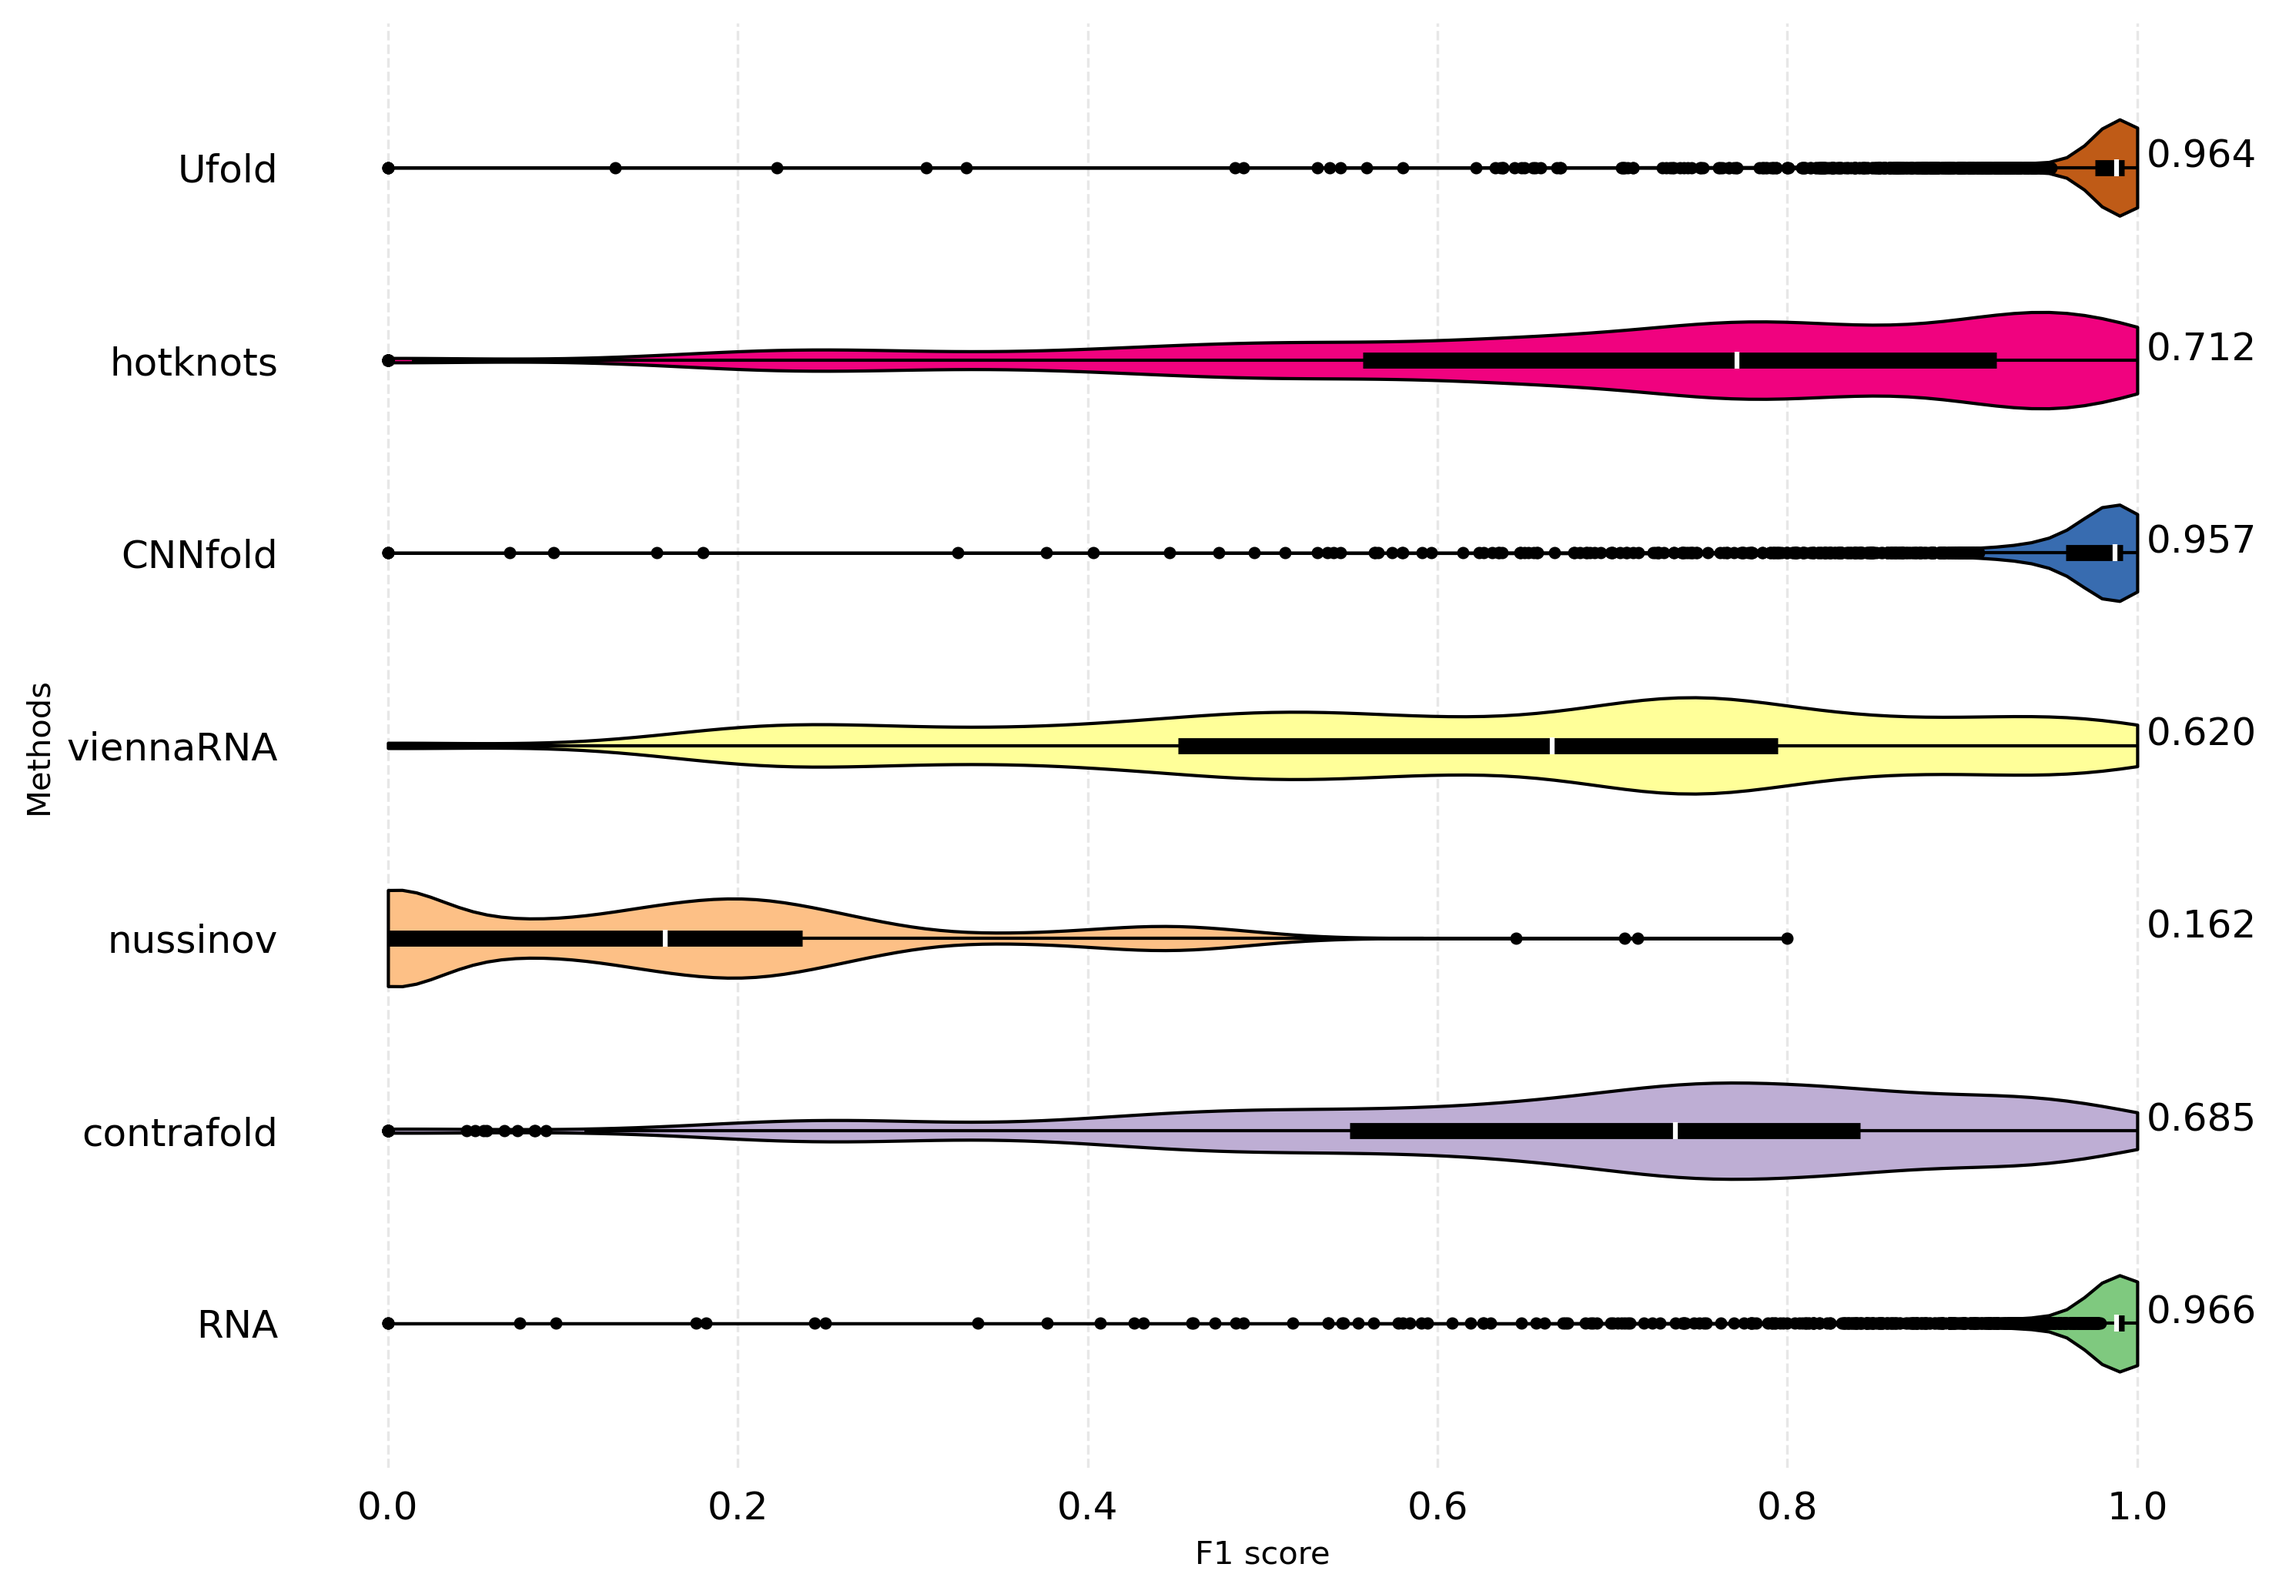
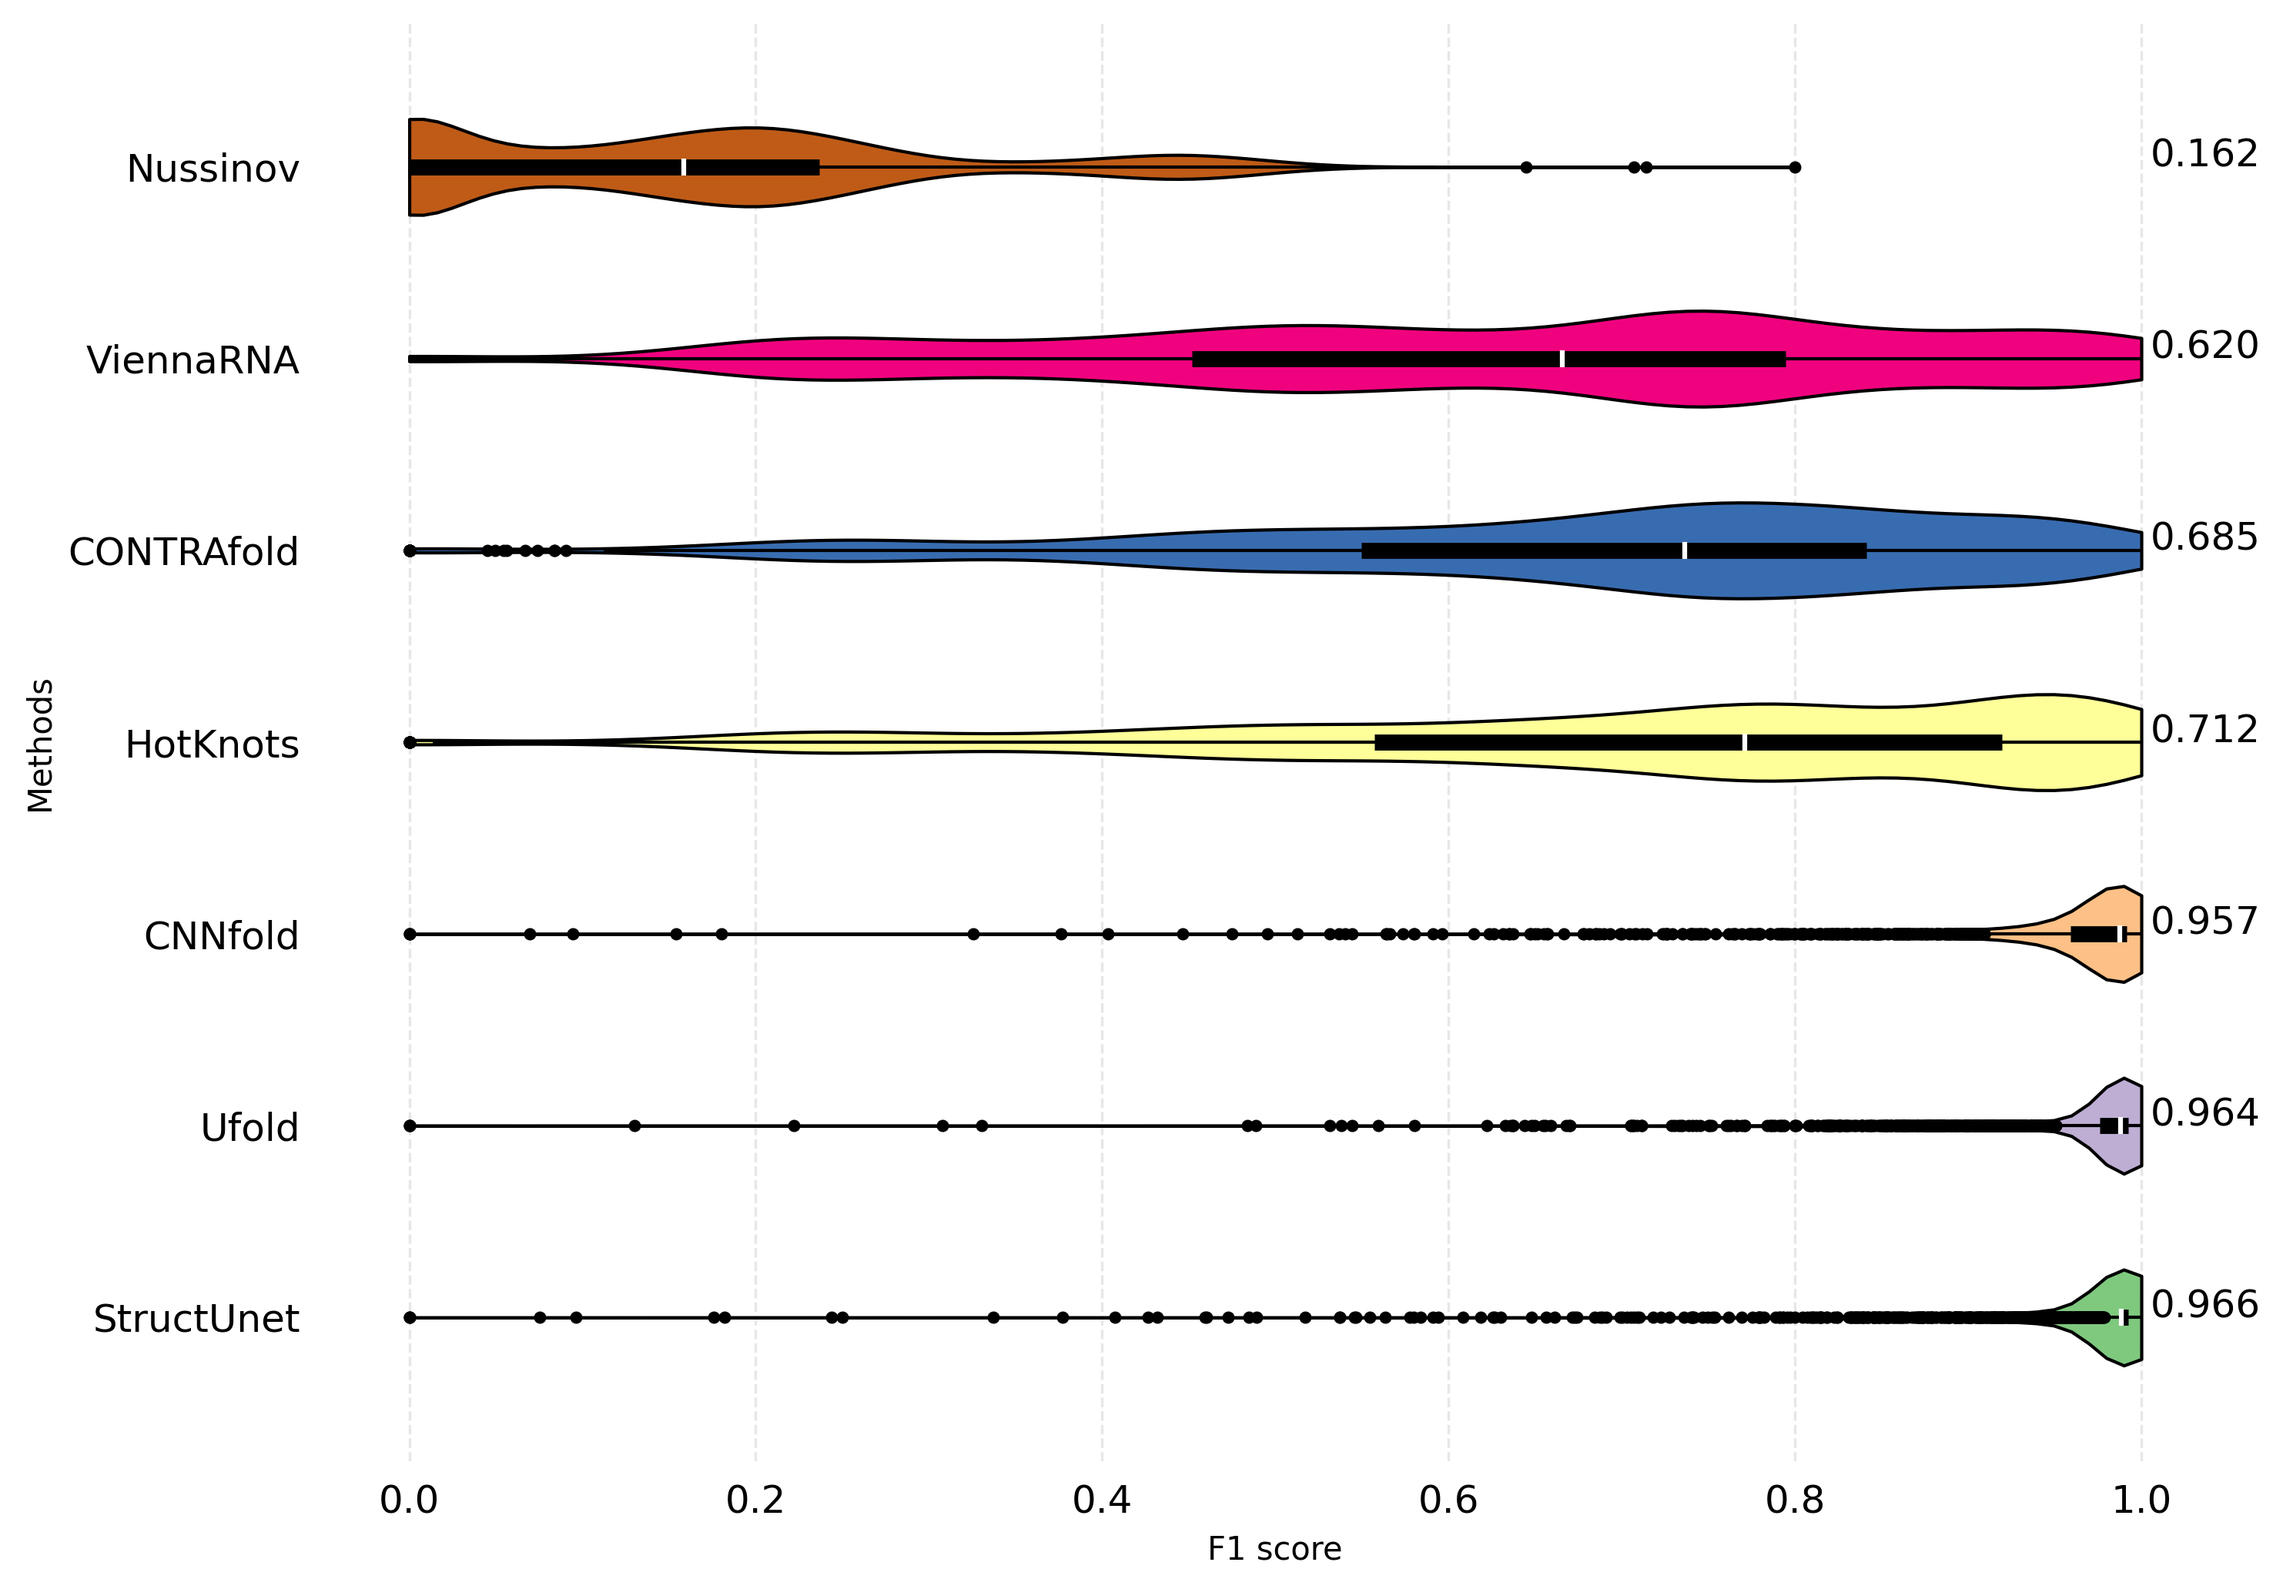
Added plot to script and changed point size

diff --git a/workflow.py b/workflow.py
@@ -192,8 +192,8 @@ def test_model_cpu(files):
     Test the model of the test set and time it
     """
     inputs = ['RNA_Unet.pth'] + files
-    outputs = ['results/times_final_cpu.csv', 'figures/time_final_cpu.png'] + [file.replace('data/test_files', 'steps/RNA_Unet') for file in files] 
-    options = {"memory":"16gb", "walltime":"48:00:00", "account":"RNA_Unet"} #NOTE - Think about memory and walltime
+    outputs = [file.replace('data/test_files', 'steps/RNA_Unet') for file in files] 
+    options = {"memory":"16gb", "walltime":"48:00:00", "account":"RNA_Unet"}
     spec = """echo "Job ID: $SLURM_JOB_ID\n"
     python3 scripts/predict_test.py"""
     return AnonymousTarget(inputs=inputs, outputs=outputs, options=options, spec=spec)
@@ -226,7 +226,7 @@ def compare_methods_under600(methods, files):
                'results/pseudoknot_F1.csv',
                'results/average_scores.csv',
                'figures/evaluation_predictions_under600.png'] 
-    options = {"memory":"8gb", "walltime":"1:00:00", "account":"RNA_Unet"} #NOTE - Think about memory and walltime
+    options = {"memory":"8gb", "walltime":"1:00:00", "account":"RNA_Unet"} 
     spec = """echo "Job ID: $SLURM_JOB_ID\n"
     python3 scripts/compare_predictions_under600.py"""
     return AnonymousTarget(inputs=inputs, outputs=outputs, options=options, spec=spec) 
@@ -238,9 +238,9 @@ def compare_methods_over600(methods, files):
     inputs = [file.replace('data/test_files', f'steps/{method}') for file in files for method in methods] + ['results/pseudoknot_F1.csv', 'results/average_scores.csv', 'results/testscores_under600.csv']
     outputs = ['results/testscores_over600.csv',
                'results/family_scores.csv',
-               'figures/evaluation_predictions_over600.png',
+               'figures/evaluation_predictions_all.png',
                'figures/per_sequence_F1.png'] 
-    options = {"memory":"16gb", "walltime":"32:00:00", "account":"RNA_Unet"} #NOTE - Think about memory and walltime
+    options = {"memory":"8gb", "walltime":"1:00:00", "account":"RNA_Unet"} 
     spec = """echo "Job ID: $SLURM_JOB_ID\n"
     python3 scripts/compare_predictions_over600.py"""
     return AnonymousTarget(inputs=inputs, outputs=outputs, options=options, spec=spec) 

diff --git a/scripts/compare_predictions_over600.py b/scripts/compare_predictions_over600.py
@@ -121,7 +121,7 @@ def plot_F1(df: pd.DataFrame, outputfile: str, method: str = 'RNA_Unet'):
     plt.figure(figsize=(12, 4))
     
     for family, group in df.groupby('family'):
-        plt.scatter(group['length'], group[f'{method}_f1'], label=family)
+        plt.scatter(group['length'], group[f'{method}_f1'], label=family, s=10)
     
     plt.xlabel('Length')
     plt.ylabel('F1 score')
@@ -204,9 +204,9 @@ if __name__ == "__main__":
 
     print("--- Making plots ---")
     #Make plots
-    f1 = df_over600[[f'{method}_f1' for method in methods]]
+    f1 = df_all[[f'{method}_f1' for method in methods]]
     f1 = f1.apply(pd.to_numeric, errors='coerce')
-    violin_plot(f1, 'Methods', outputfile='figures/evaluation_predictions_over600.png')
+    violin_plot(f1, 'Methods', outputfile='figures/evaluation_predictions_all.png')
 
     plot_F1(df_all, 'figures/per_sequence_F1.png')
 
